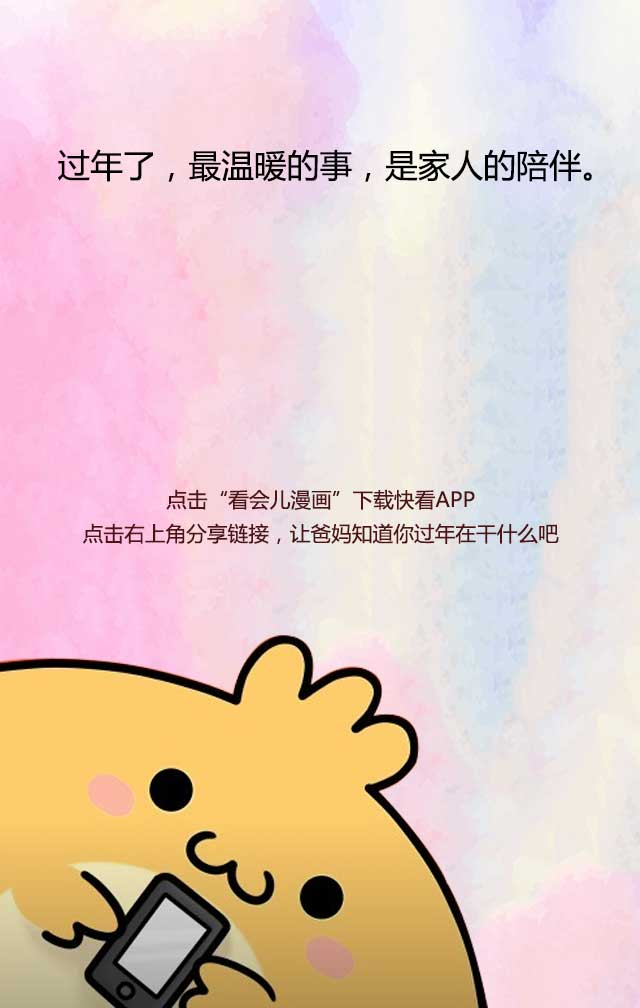
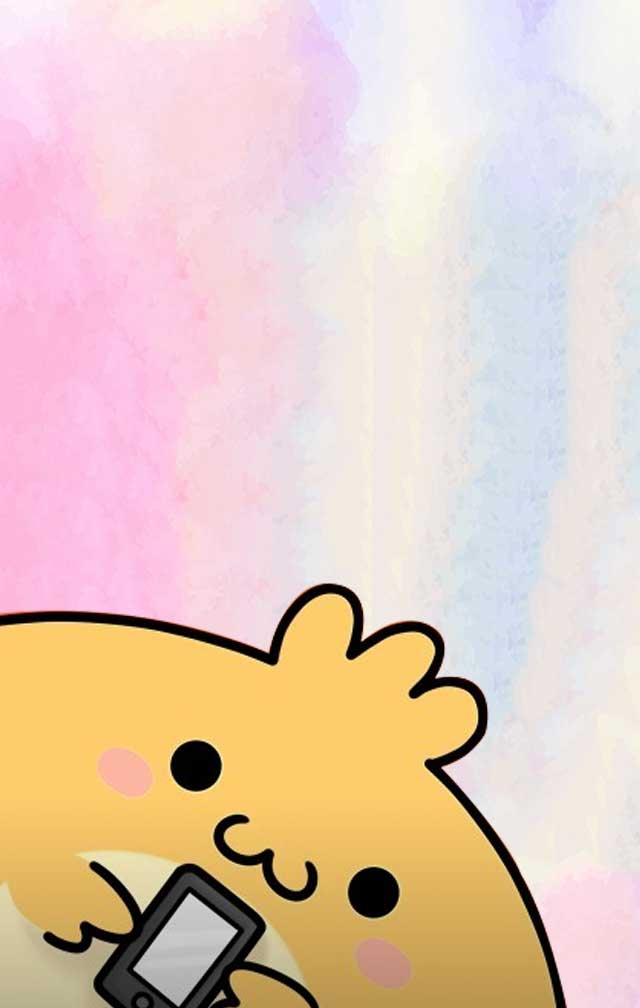
new version update

diff --git a/index.html b/index.html
@@ -136,7 +136,9 @@
         </div>
         <div class="swiper-slide">
             <div class="bg-img" data-img-src="img/14.jpg">
-                <div class="img-btn"><a href="//www.kuaikanmanhua.com/m/"><img width="50%" src="img/14_03.jpg" alt=""/></a></div>
+                <div class="po-ab page-14bg" style="width: 247px;height: 50px;right: 0px;top: 2%;background-size: 127%;background-position: 7% 0%;"></div>
+                <div class="last-text page-14bg po-ab animated" data-class="fadeInDown" style="width: 200px;height: 100px;background-size: 136%;background-position: 0% 40%;top: 17%;left: 18%;"></div>
+                <div class="img-btn po-ab animated" data-class="fadeInUp" style="animation-delay: 2.5s;-webkit-animation-delay: 2.5s"><div class="btn"></div></div>
             </div>
         </div>
     </div>
@@ -156,5 +158,10 @@
 <script src="js/idangerous.swiper-2.0.min.js"></script>
 <script src="js/idangerous.swiper.progress.min.js"></script>
 <script src="js/simple-app.js"></script>
+<script>
+    $('.img-btn').on('tap',function(){
+        window.location.href = '//www.kuaikanmanhua.com/m/';
+    });
+</script>
 </body>
 </html>

diff --git a/css/simple-app.css b/css/simple-app.css
@@ -528,12 +528,57 @@ p{
     animation-name: fadeIn;
 }
 
-.img-btn {
+@-webkit-keyframes fadeInUp {
+    0% {
+        opacity: 0;
+        -webkit-transform: translate3d(0, 100%, 0);
+        transform: translate3d(0, 100%, 0);
+    }
 
+    100% {
+        opacity: 1;
+        -webkit-transform: none;
+        transform: none;
+    }
+}
+
+@keyframes fadeInUp {
+    0% {
+        opacity: 0;
+        -webkit-transform: translate3d(0, 100%, 0);
+        transform: translate3d(0, 100%, 0);
+    }
+
+    100% {
+        opacity: 1;
+        -webkit-transform: none;
+        transform: none;
+    }
+}
+
+.fadeInUp {
+    -webkit-animation-name: fadeInUp;
+    animation-name: fadeInUp;
+}
+
+.img-btn {
+    top: 38%;
+    left: 5%;
 }
 .img-btn img{
     position: absolute;
     top: 35%;
     left: 50%;
     margin-left: -25%;
+}
+.page-14bg{
+    background: url("../img/text.png") no-repeat;
+    background-size: 58%;
+}
+.btn {
+    width: 497px;
+    height: 110px;
+    background: url("../img/text.png") no-repeat;
+    background-position: 0px 113%;
+    background-size: 58%;
 }
